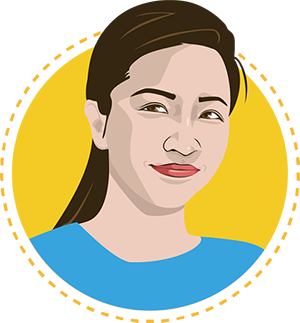
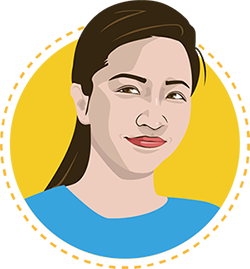
resize phone img

diff --git a/index.html b/index.html
@@ -41,8 +41,15 @@
                 </div>
         </div>
         
-        <div class="home " >            
-            <img src="img/secondary-logo.png" onClick="goHome()" alt="fireworks secondary logo" class="home__secondary-logo">
+        <div class="home " >   
+            <img srcset="img/secondary-logo-s.png 200w, img/secondary-logo.png 500w"
+            media="(max-width: 600px) 200px, 500px"
+            alt="fireworks secondary logo" 
+            class="home__secondary-logo"
+            onClick="goHome()"
+            src="img/secondary-logo.png"
+            >         
+
             <div class="social-media">
                 <svg class="social-media__ins">
                     <a href="https://www.instagram.com/firewincold/" target="_blank"><use xlink:href="img/sprite.svg#icon-instagram"></use></a>
@@ -81,10 +88,12 @@
                 src="img/hero/project1-hero.jpg"
                 >
                 <img 
-                src="img/hero/project2-hero.png"
+                srcset="img/hero/project2-hero-s.png 600w, img/hero/project2-hero.png 977w"
+                media="(max-width: 600px) 600px, 977px"
                 id="p2" 
                 alt="museum main picture" 
                 class="works__piccontainer-p2 heroimghidden"
+                src="img/hero/project2-hero.png"
                 >
                 <img srcset="img/hero/project3-hero-s.jpg 1080w, img/hero/project3-hero.jpg 1925w"
                 media="(max-width: 600px) 1080px, 1925px"
